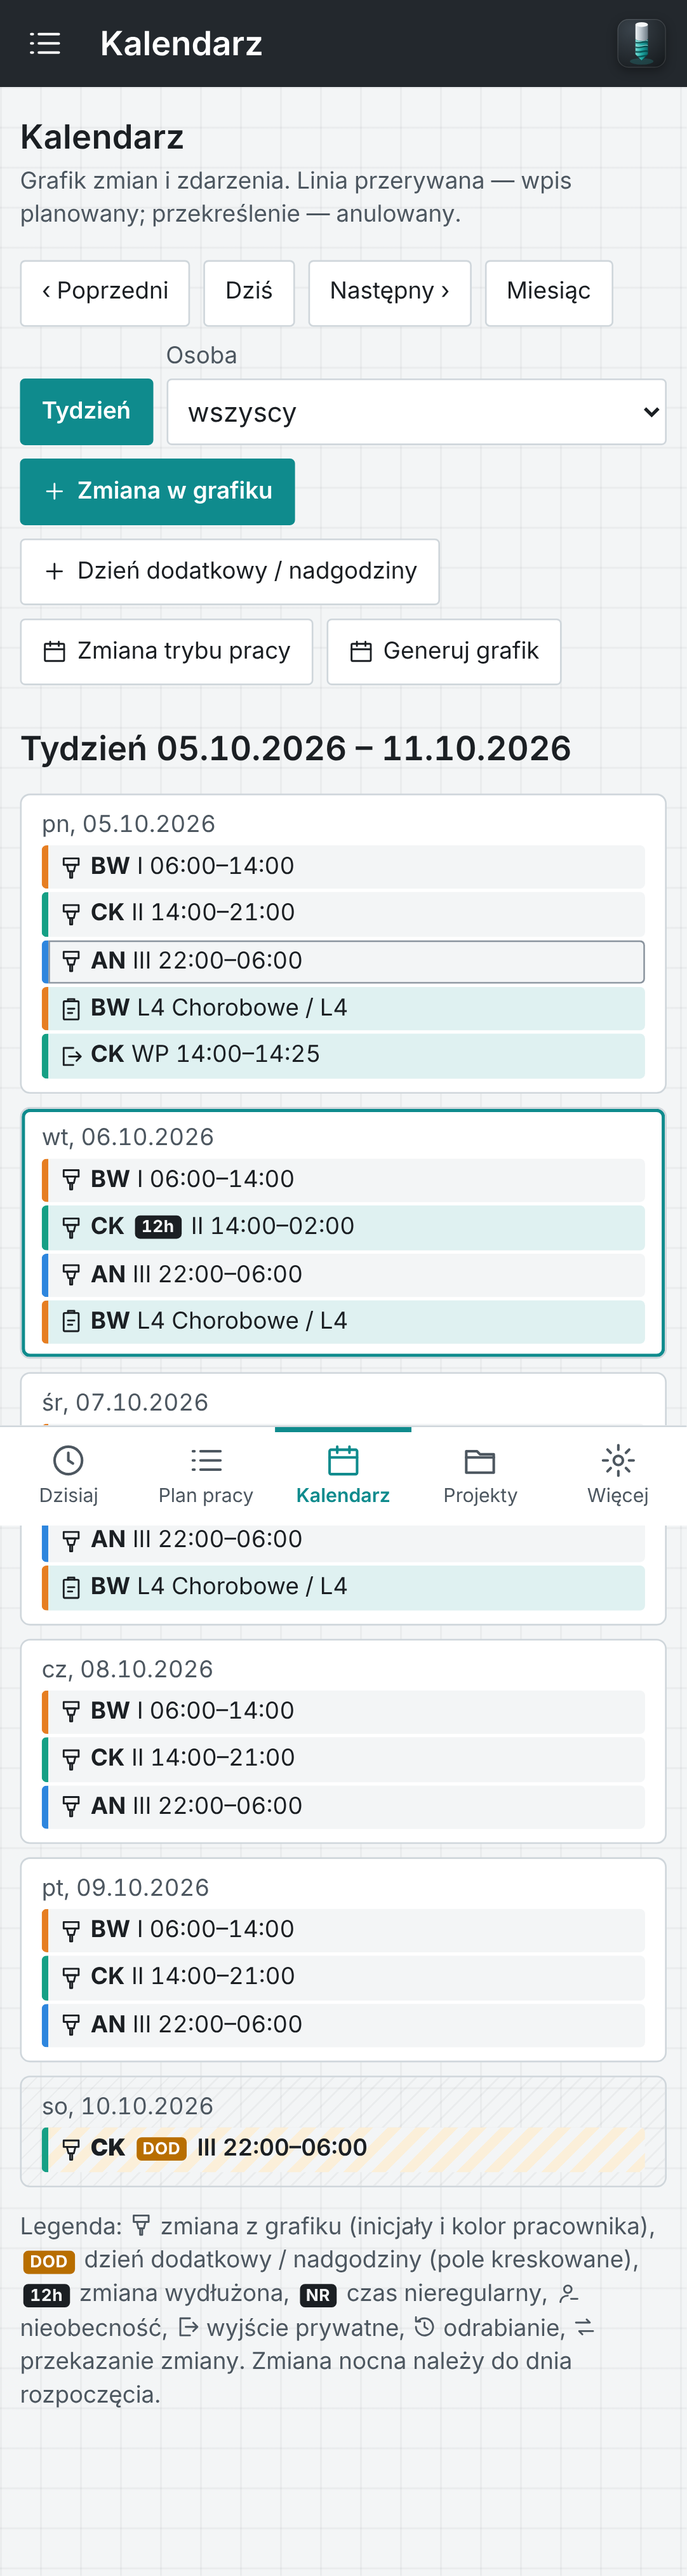
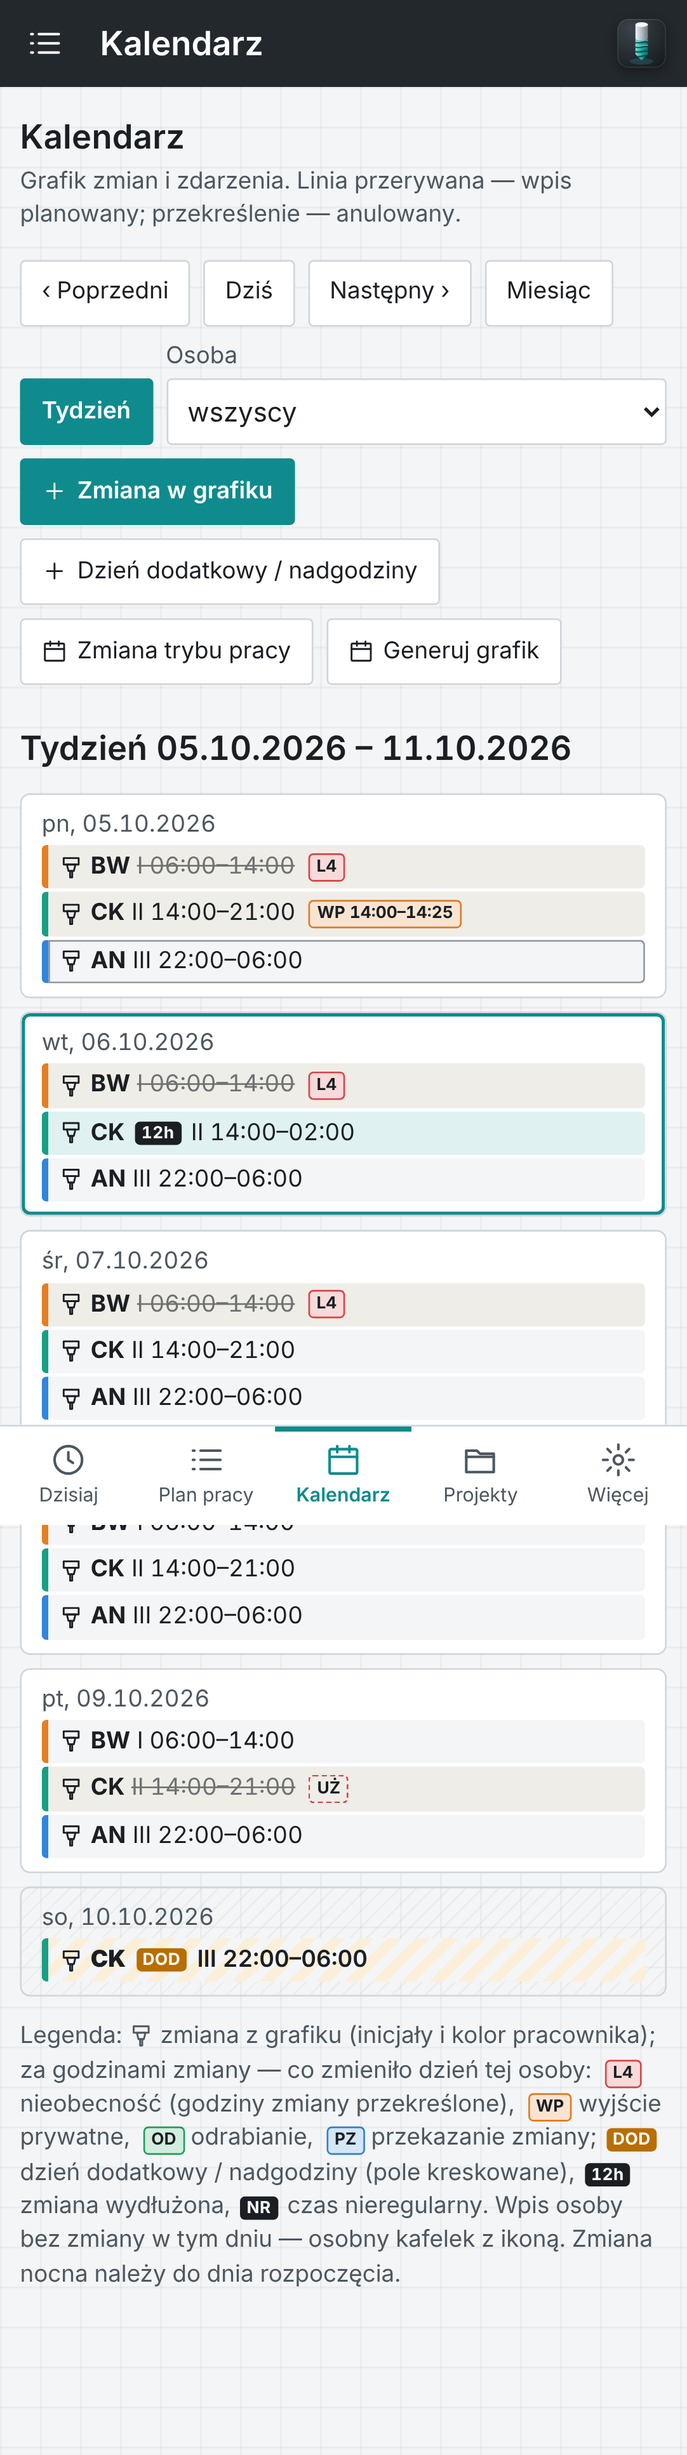
Menu: Urlopy i absencje oraz Wyjścia i odrabianie jako zakładki w Pracownicy, tablica maszyn poza menu; kalendarz: nieobecność / wyjście / odrabianie przy zmianie pracownika
Claude-Session: https://claude.ai/code/session_01Mgo9RDb6yKEqWF3PSmGbbJ

diff --git a/public/app.js b/public/app.js
@@ -25,6 +25,15 @@ const NAV = [
   ['ustawienia', 'Ustawienia', 'settings', null],
 ];
 
+// Nie w menu bocznym: urlopy i wyjścia są zakładkami w „Pracownicy”; tablica maszyn powielała Centrum programowania.
+const RAIL_HIDDEN = new Set(['wyjscia', 'absencje', 'maszyny']);
+const NAV_PARENT = { wyjscia: 'pracownicy', absencje: 'pracownicy' };
+// Zakładki widoku Pracownicy (przełączane w tym samym menu)
+function peopleTabs(active) {
+  const tabs = [['pracownicy', 'Pracownicy', 'users'], ...(can('view.leave.all') ? [['absencje', 'Urlopy i absencje', 'leave']] : []), ['wyjscia', 'Wyjścia i odrabianie', 'exit']];
+  return `<nav class="section-tabs" aria-label="Pracownicy">${tabs.map(([id, l, ic]) => `<a href="#/${id}" class="${id === active ? 'active' : ''}" ${id === active ? 'aria-current="page"' : ''}>${icon(ic)}<span>${esc(l)}</span></a>`).join('')}</nav>`;
+}
+
 function person(id, { name = true } = {}) {
   const e = S.emp.get(Number(id));
   if (!e) return '<span class="muted">—</span>';
@@ -83,7 +92,7 @@ function renderShell() {
   const tabs = isGuest() ? [['status', 'Status', 'project']]
     : isEmployee() ? [['dzisiaj', 'Dzisiaj', 'today'], ['plan', 'Polecenia', 'list'], ['zglos', 'Zgłoś', 'summons'], ['projekty', 'Projekty', 'project']]
       : [['dzisiaj', 'Dzisiaj', 'today'], ['plan', 'Plan pracy', 'list'], ['kalendarz', 'Kalendarz', 'calendar'], ['projekty', 'Projekty', 'project']];
-  const nav = isGuest() ? [['status', 'Status projektów', 'project', null], ['ustawienia', 'Moje konto', 'settings', null]] : NAV.filter(n => typeof n[3] === 'function' ? n[3]() : (!n[3] || can(n[3])));
+  const nav = isGuest() ? [['status', 'Status projektów', 'project', null], ['ustawienia', 'Moje konto', 'settings', null]] : NAV.filter(n => !RAIL_HIDDEN.has(n[0]) && (typeof n[3] === 'function' ? n[3]() : (!n[3] || can(n[3]))));
   $('#app').innerHTML = `<div class="shell">
     <header class="appbar"><button type="button" class="appbar-menu" id="menuBtn" aria-label="Otwórz menu" aria-expanded="false" aria-controls="rail">${icon('list')}</button>
       <span class="appbar-title" id="appbarTitle">CNC Team</span>${appLogo(30)}</header>
@@ -121,7 +130,7 @@ async function route() {
   if (!S.me) return;
   let [name, ...rest] = (location.hash.replace(/^#\/?/, '').split('?')[0] || (isGuest() ? 'status' : 'dzisiaj')).split('/');
   if (isGuest() && name !== 'ustawienia') name = 'status';
-  $$('[data-nav]').forEach(a => a.classList.toggle('active', a.dataset.nav === name));
+  $$('[data-nav]').forEach(a => a.classList.toggle('active', a.dataset.nav === (NAV_PARENT[name] || name)));
   const navItem = isGuest() ? (name === 'status' ? ['status', 'Status projektów'] : ['ustawienia', 'Moje konto']) : NAV.find(n => n[0] === name);
   if ($('#appbarTitle')) $('#appbarTitle').textContent = navItem ? navItem[1] : 'CNC Team';
   const main = $('#main');
@@ -216,8 +225,8 @@ VIEWS.kalendarz = async (main) => {
     const empty = !daySched.length && !dayEv.length && !holidays.has(d) && d !== S.me.today;
     cells += `<div class="day ${mode === 'miesiac' && d.slice(0, 7) !== anchor.slice(0, 7) ? 'other' : ''} ${off ? 'off' : ''} ${d === S.me.today ? 'today' : ''} ${empty ? 'empty-day' : ''}">
       <div class="num" data-dow="${DOW[weekday(d) - 1]}, ${plDate(d)}"><span class="desk-only">${Number(d.slice(8))}</span>${holidays.has(d) ? `<em>${esc(holidays.get(d))}</em>` : ''}</div>
-      ${daySched.map(s => shiftChip(s, tpl)).join('')}
-      ${dayEv.map(ev => { const e = S.emp.get(ev.employee_id); return `<div class="chip ev ${ev.status === 'anulowana' || ev.status === 'anulowane' ? 'cancel' : ''} ${ev.status === 'planowana' || ev.status === 'planowane' ? 'plan' : ''}" style="border-left-color:${esc(e?.color || '#888')}" title="${esc(ev.label)} ${esc(ev.status || '')}">${icon(ev.icon && ICON_PATHS[ev.icon] ? ev.icon : EVENT_ICON[ev.kind])}<b>${esc(initials(e))}</b> ${esc(ev.short || '')} ${esc(ev.time || ev.label)}</div>`; }).join('')}
+      ${daySched.map(s => shiftChip(s, tpl, dayEv.filter(ev => ev.employee_id === s.employee_id))).join('')}
+      ${dayEv.filter(ev => !daySched.some(s => s.employee_id === ev.employee_id)).map(ev => { const e = S.emp.get(ev.employee_id); return `<div class="chip ev ${ev.status === 'anulowana' || ev.status === 'anulowane' ? 'cancel' : ''} ${ev.status === 'planowana' || ev.status === 'planowane' ? 'plan' : ''}" style="border-left-color:${esc(e?.color || '#888')}" title="${esc(ev.label)} ${esc(ev.status || '')}">${icon(ev.icon && ICON_PATHS[ev.icon] ? ev.icon : EVENT_ICON[ev.kind])}<b>${esc(initials(e))}</b> ${esc(ev.short || '')} ${esc(ev.time || ev.label)}</div>`; }).join('')}
     </div>`;
   }
   main.innerHTML = head('Kalendarz', 'Grafik zmian i zdarzenia. Linia przerywana — wpis planowany; przekreślenie — anulowany.',
@@ -226,7 +235,7 @@ VIEWS.kalendarz = async (main) => {
      <label class="field">Osoba<select id="calEmp"><option value="">wszyscy</option>${empOptions().map(([v, l]) => `<option value="${v}" ${String(v) === empF ? 'selected' : ''}>${esc(l)}</option>`).join('')}</select></label>
      ${isAdmin() ? btn('addShift', 'Zmiana w grafiku') + btn('extraShift', 'Dzień dodatkowy / nadgodziny', 'plus', '') + btn('bulkMode', 'Zmiana trybu pracy', 'calendar', '') + btn('genShift', 'Generuj grafik', 'calendar', '') : ''}`) +
     `<h2>${esc(title)}</h2><div class="cal ${mode === 'tydzien' ? 'week' : ''}">${cells}</div>
-     <p class="small muted">Legenda: ${icon('spindle')} zmiana z grafiku (inicjały i kolor pracownika), <span class="mode-badge dod">DOD</span> dzień dodatkowy / nadgodziny (pole kreskowane), <span class="mode-badge">12h</span> zmiana wydłużona, <span class="mode-badge">NR</span> czas nieregularny, ${icon('absence')} nieobecność, ${icon('exit')} wyjście prywatne, ${icon('makeup')} odrabianie, ${icon('handover')} przekazanie zmiany. Zmiana nocna należy do dnia rozpoczęcia.</p>`;
+     <p class="small muted">Legenda: ${icon('spindle')} zmiana z grafiku (inicjały i kolor pracownika); za godzinami zmiany — co zmieniło dzień tej osoby: <span class="ev-tag tone-l4">L4</span> nieobecność (godziny zmiany przekreślone), <span class="ev-tag tone-force">WP</span> wyjście prywatne, <span class="ev-tag tone-uw">OD</span> odrabianie, <span class="ev-tag tone-event">PZ</span> przekazanie zmiany; <span class="mode-badge dod">DOD</span> dzień dodatkowy / nadgodziny (pole kreskowane), <span class="mode-badge">12h</span> zmiana wydłużona, <span class="mode-badge">NR</span> czas nieregularny. Wpis osoby bez zmiany w tym dniu — osobny kafelek z ikoną. Zmiana nocna należy do dnia rozpoczęcia.</p>`;
   $('#calEmp').onchange = (e) => { location.hash = link({ osoba: e.target.value }); };
   on('addShift', () => shiftForm(anchor));
   on('genShift', () => generateForm(anchor));
@@ -246,13 +255,18 @@ function modeBadge(s) {
   if (s.mode === 'nieregularna') return '<span class="mode-badge">NR</span>';
   return '';
 }
-function shiftChip(s, tpl) {
+// Zmiana z grafiku; za czasem pracy — to, co zmieniło dzień tej osoby: nieobecność, wyjście prywatne, odrabianie, przekazanie
+const EV_TONE = { nieobecnosc: 'tone-l4', wyjscie: 'tone-force', odrabianie: 'tone-uw', przekazanie: 'tone-event' };
+function shiftChip(s, tpl, evs = []) {
   const e = S.emp.get(s.employee_id);
   const mode = s.mode && s.mode !== 'standardowa' ? s.mode : '';
   const ot = s.overtime_min ? ` · nadgodziny ${hShort(s.overtime_min)}` : '';
-  const tip = `${e ? e.first_name + ' ' + e.last_name : ''}: ${s.start_local.time}–${s.end_local.time}${mode ? ` · ${MODE_LABEL[mode]}` : ''}${ot}${s.reason ? ` · ${s.reason}` : ''}`;
-  const inner = `${icon('spindle')}<b>${esc(initials(e))}</b>${modeBadge(s)} ${esc(tpl.get(s.shift_template_id)?.short || '')} ${s.start_local.time}–${s.end_local.time}`;
-  const cls = `chip shift ${mode ? `mode-${mode}` : ''}`;
+  const evTxt = evs.map(ev => `${ev.label}${ev.time ? ` ${ev.time}` : ''}${ev.status ? ` (${ev.status})` : ''}`).join('; ');
+  const tip = `${e ? e.first_name + ' ' + e.last_name : ''}: ${s.start_local.time}–${s.end_local.time}${mode ? ` · ${MODE_LABEL[mode]}` : ''}${ot}${s.reason ? ` · ${s.reason}` : ''}${evTxt ? ` · ${evTxt}` : ''}`;
+  const tags = evs.map(ev => `<span class="ev-tag ${EV_TONE[ev.kind] || 'tone-other'} ${/anulowan/.test(ev.status || '') ? 'cancel' : ''} ${/planowan|oczekuje/.test(ev.status || '') ? 'plan' : ''}">${esc(ev.short || '•')}${ev.time ? ` ${esc(ev.time)}` : ''}</span>`).join('');
+  const absent = evs.some(ev => ev.kind === 'nieobecnosc' && !/anulowan/.test(ev.status || ''));
+  const inner = `${icon('spindle')}<b>${esc(initials(e))}</b>${modeBadge(s)} <span class="${absent ? 'shift-off' : ''}">${esc(tpl.get(s.shift_template_id)?.short || '')} ${s.start_local.time}–${s.end_local.time}</span>${tags}`;
+  const cls = `chip shift ${mode ? `mode-${mode}` : ''} ${evs.length ? 'has-ev' : ''}`;
   return isAdmin()
     ? `<button type="button" class="${cls}" data-shift="${s.id}" style="border-left-color:${esc(e?.color || '#888')}" title="${esc(tip)} — kliknij, aby zmienić">${inner}</button>`
     : `<div class="${cls}" style="border-left-color:${esc(e?.color || '#888')}" title="${esc(tip)}">${inner}</div>`;

diff --git a/public/views-people.js b/public/views-people.js
@@ -12,7 +12,7 @@ VIEWS.pracownicy = async (main) => {
   const leaveBy = new Map(leave.map(x => [x.employee_id, x]));
   const yearNav = leave.length ? `<span class="lc-yearnav"><span class="muted small">Urlopy</span><a class="btn" href="#/pracownicy?rok=${year - 1}" aria-label="Poprzedni rok">‹</a><span class="btn lc-year">${year}</span><a class="btn" href="#/pracownicy?rok=${year + 1}" aria-label="Następny rok">›</a></span>` : '';
   const machines = new Map(S.boot.machines.map(m => [m.id, m]));
-  main.innerHTML = head('Pracownicy', `Profile, wymiar etatu, normy, kompetencje i obsługiwane maszyny${leave.length ? ', a pod każdym — wykorzystane urlopy i nieobecności w roku' : ''}.`, yearNav + (isAdmin() ? btn('addEmp', 'Dodaj pracownika') : '')) +
+  main.innerHTML = peopleTabs('pracownicy') + head('Pracownicy', `Profile, wymiar etatu, normy, kompetencje i obsługiwane maszyny${leave.length ? ', a pod każdym — wykorzystane urlopy i nieobecności w roku' : ''}.`, yearNav + (isAdmin() ? btn('addEmp', 'Dodaj pracownika') : '')) +
     `<div class="cols">${emps.map(e => {
       const t = e.current_terms; const b = balances.find(x => x.employee_id === e.id);
       return `<section class="panel"><div class="page-head" style="margin:0 0 var(--sp-2)"><h3>${person(e.id)}</h3>${e.active ? tag('aktywny', 'ok') : tag('nieaktywny')}</div>
@@ -81,7 +81,7 @@ VIEWS.wyjscia = async (main) => {
   const closed = mStatus.status === 'zamkniety';
   const nav = `<a class="btn" href="#/wyjscia?m=${addMonths(ym, -1)}">‹</a><span class="btn" aria-live="polite">${plMonth(ym)}</span><a class="btn" href="#/wyjscia?m=${addMonths(ym, 1)}">›</a>`;
   const tools = nav + (isAdmin() && !closed ? btn('addExit', 'Wyjście prywatne') + btn('addMk', 'Odrabianie', 'makeup', '') : '');
-  main.innerHTML = head('Wyjścia i odrabianie', `Rozliczenie w miesiącu kalendarzowym (zasada firmy, nie termin ustawowy). Miesiąc: ${closed ? tag(`zamknięty, wersja ${mStatus.version}`, 'danger', 'lock') : tag('otwarty', 'ok')}`, tools) + `
+  main.innerHTML = peopleTabs('wyjscia') + head('Wyjścia i odrabianie', `Rozliczenie w miesiącu kalendarzowym (zasada firmy, nie termin ustawowy). Miesiąc: ${closed ? tag(`zamknięty, wersja ${mStatus.version}`, 'danger', 'lock') : tag('otwarty', 'ok')}`, tools) + `
     ${exitCalendar(ym, calFrom, calTo, exits, makeups, sched)}
     <div class="notice info small">Wpis administratora nie zastępuje pisemnego wniosku pracownika. Nadgodziny nie są automatycznie zamieniane na odrobienie, a nadwyżka odrabiania nie tworzy kredytu.</div>
     <section class="panel"><h3>Salda</h3>${table([
@@ -226,7 +226,7 @@ VIEWS.absencje = async (main) => {
     ], S.boot.categories)}</section>`;
   }
   const tools = isAdmin() ? (tab === 'lista' || tab === 'kalendarz' ? btn('addAbs', 'Dodaj nieobecność') : tab === 'urlop' ? btn('addPool', 'Pula urlopu (z kadr)') : tab === 'katalog' ? btn('addCat', 'Nowa kategoria') : '') : '';
-  main.innerHTML = head('Urlopy i absencje', 'Planowane, wykorzystane i anulowane nieobecności. Bez obliczeń wynagrodzeń i zasiłków.', tools) +
+  main.innerHTML = peopleTabs('absencje') + head('Urlopy i absencje', 'Planowane, wykorzystane i anulowane nieobecności. Bez obliczeń wynagrodzeń i zasiłków.', tools) +
     `<div class="tabs" role="tablist">${tabs.map(([id, l]) => `<button role="tab" class="${tab === id ? 'active' : ''}" data-tab="${id}">${esc(l)}</button>`).join('')}</div>${body}`;
   $$('[data-tab]').forEach(b => b.onclick = () => { location.hash = `#/absencje?t=${b.dataset.tab}`; });
   if ($('#absF')) $('#absF').onsubmit = (e) => { e.preventDefault(); location.hash = `#/absencje?t=lista&${new URLSearchParams([...new FormData(e.target)].filter(([, v]) => v))}`; };

diff --git a/public/app.css b/public/app.css
@@ -500,3 +500,18 @@ p .mode-badge { display: inline-block; margin: 0 2px; }
 .xc-sub { font-size: 10px; color: var(--c-ink-soft); white-space: nowrap; overflow: hidden; text-overflow: ellipsis; }
 .lc-item.done { opacity: .55; }
 @media (max-width: 700px) { .xc-sub { white-space: normal; font-size: 9px; line-height: 1.15; } }
+/* Zakładki sekcji (Pracownicy / Urlopy i absencje / Wyjścia i odrabianie) */
+.section-tabs { display: flex; gap: 4px; flex-wrap: wrap; margin: 0 0 var(--sp-3); padding: 4px; background: var(--c-paper); border: 1px solid var(--c-line); border-radius: var(--r-md); width: fit-content; max-width: 100%; }
+.section-tabs a { display: inline-flex; align-items: center; gap: 6px; padding: 7px 12px; border-radius: var(--r-sm); color: var(--c-ink-soft); text-decoration: none; font-weight: 600; font-size: var(--fs-sm); }
+.section-tabs a svg { width: 16px; height: 16px; }
+.section-tabs a:hover { color: var(--c-ink); background: var(--c-surface); }
+.section-tabs a.active { background: var(--c-surface); color: var(--c-ink); box-shadow: 0 1px 2px rgba(0,0,0,.12), inset 0 -2px 0 var(--c-accent); }
+@media (max-width: 700px) { .section-tabs { width: 100%; } .section-tabs a { flex: 1; justify-content: center; padding: 7px 6px; font-size: 12px; } .section-tabs a svg { display: none; } }
+/* Zdarzenia przy zmianie w kalendarzu */
+.ev-tag { display: inline-flex; align-items: center; margin-left: 4px; padding: 0 4px; border-radius: 3px; font-size: 10px; font-weight: 700; line-height: 1.5; white-space: nowrap;
+  background: color-mix(in srgb, var(--tone) 20%, var(--c-surface)); border: 1px solid var(--tone); color: var(--c-ink); }
+.ev-tag.plan { border-style: dashed; background: transparent; }
+.ev-tag.cancel { text-decoration: line-through; opacity: .6; }
+.shift-off { text-decoration: line-through; opacity: .6; }
+.chip.has-ev { background: color-mix(in srgb, var(--c-warn) 6%, var(--c-paper)); }
+.chip.has-ev { flex-wrap: wrap; white-space: normal; row-gap: 2px; }

diff --git a/public/sw.js b/public/sw.js
@@ -2,7 +2,7 @@
 // Zasada prywatności: w pamięci telefonu przechowywany jest WYŁĄCZNIE szkielet aplikacji (HTML/CSS/JS/ikony).
 // Odpowiedzi API (/api/*) — dane osobowe, absencje, rozliczenia — nigdy nie są buforowane.
 'use strict';
-const VERSION = 'cnc-team-shell-v13';
+const VERSION = 'cnc-team-shell-v14';
 const SHELL = [
   '/', '/index.html', '/tokens.css', '/app.css', '/icons.js', '/brand.js', '/charts.js', '/ui.js', '/app.js', '/views-people.js', '/views-projects.js',
   '/views-reports.js', '/views-requests.js', '/views-analytics.js', '/views-plan.js', '/pwa.js', '/manifest.webmanifest', '/favicon.svg', '/icons/icon-192.png', '/icons/icon-512.png',

diff --git a/README.md b/README.md
@@ -32,7 +32,9 @@ Dane demonstracyjne są ustawione na „dzisiaj” = 6.10.2026. Aby zobaczyć je
 
 Aplikacja działa wyłącznie na serwerze firmowym — bez chmury i usług zewnętrznych. Kierownik, programiści (także z domu, z telefonu) i goście wchodzą pod jeden adres HTTPS w domenie firmy. Instalacja, wymagania i zabezpieczenia: **`docs/DEPLOY.md`** (instrukcja dla IT), skrypty w `deploy/`, paczka: `npm run package` → `dist/cnc-team-serwer.zip`.
 
-## Urlopy
+## Pracownicy, urlopy, wyjścia
+- Menu boczne: **Pracownicy** ma zakładki *Pracownicy · Urlopy i absencje · Wyjścia i odrabianie*. Tablica maszyn usunięta z menu (te same dane są w Centrum programowania).
+- **Kalendarz**: za godzinami zmiany danej osoby widać, co zmieniło jej dzień — nieobecność (godziny przekreślone), wyjście prywatne z godzinami, odrabianie, przekazanie zmiany.
 - **Kalendarz urlopów** (Urlopy i absencje): miesiąc w kafelkach — kto i jaka nieobecność.
 - **Wyjścia i odrabianie**: nad saldami kalendarz miesiąca — kto, którego dnia, na której zmianie wyszedł / odrabiał.
 - **Pracownicy**: pod każdą osobą zestawienie na wybrany rok — urlop wypoczynkowy (wykorzystano / zostało / zaległy), na żądanie, siła wyższa, art. 188, inne nieobecności.
